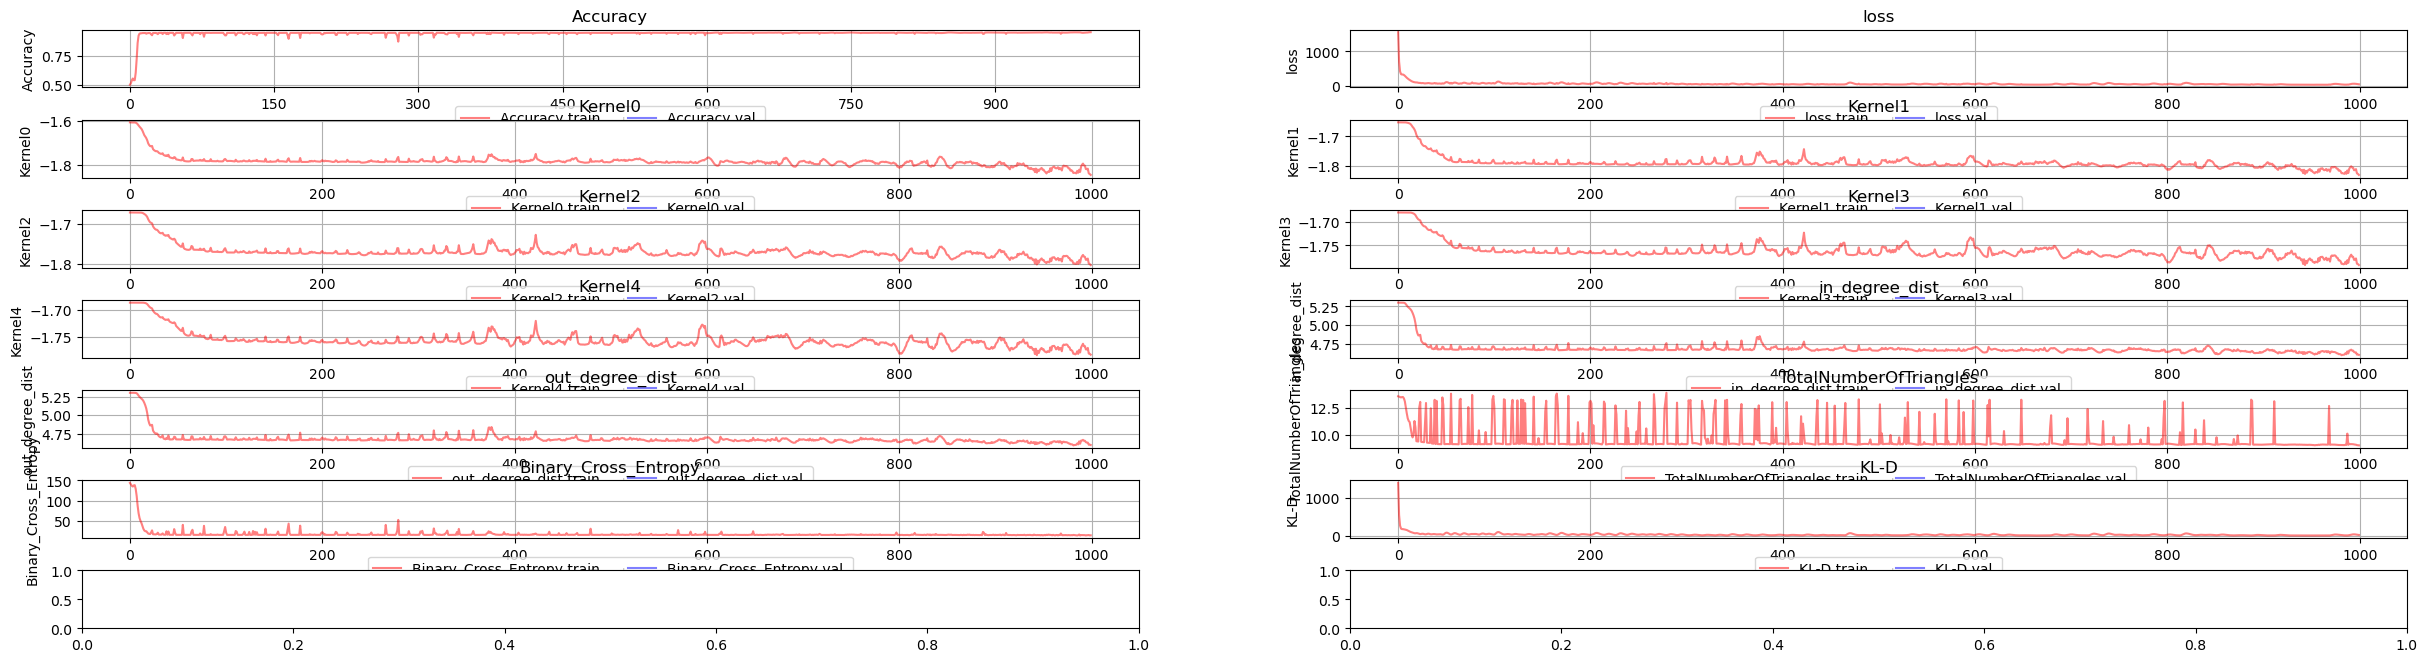
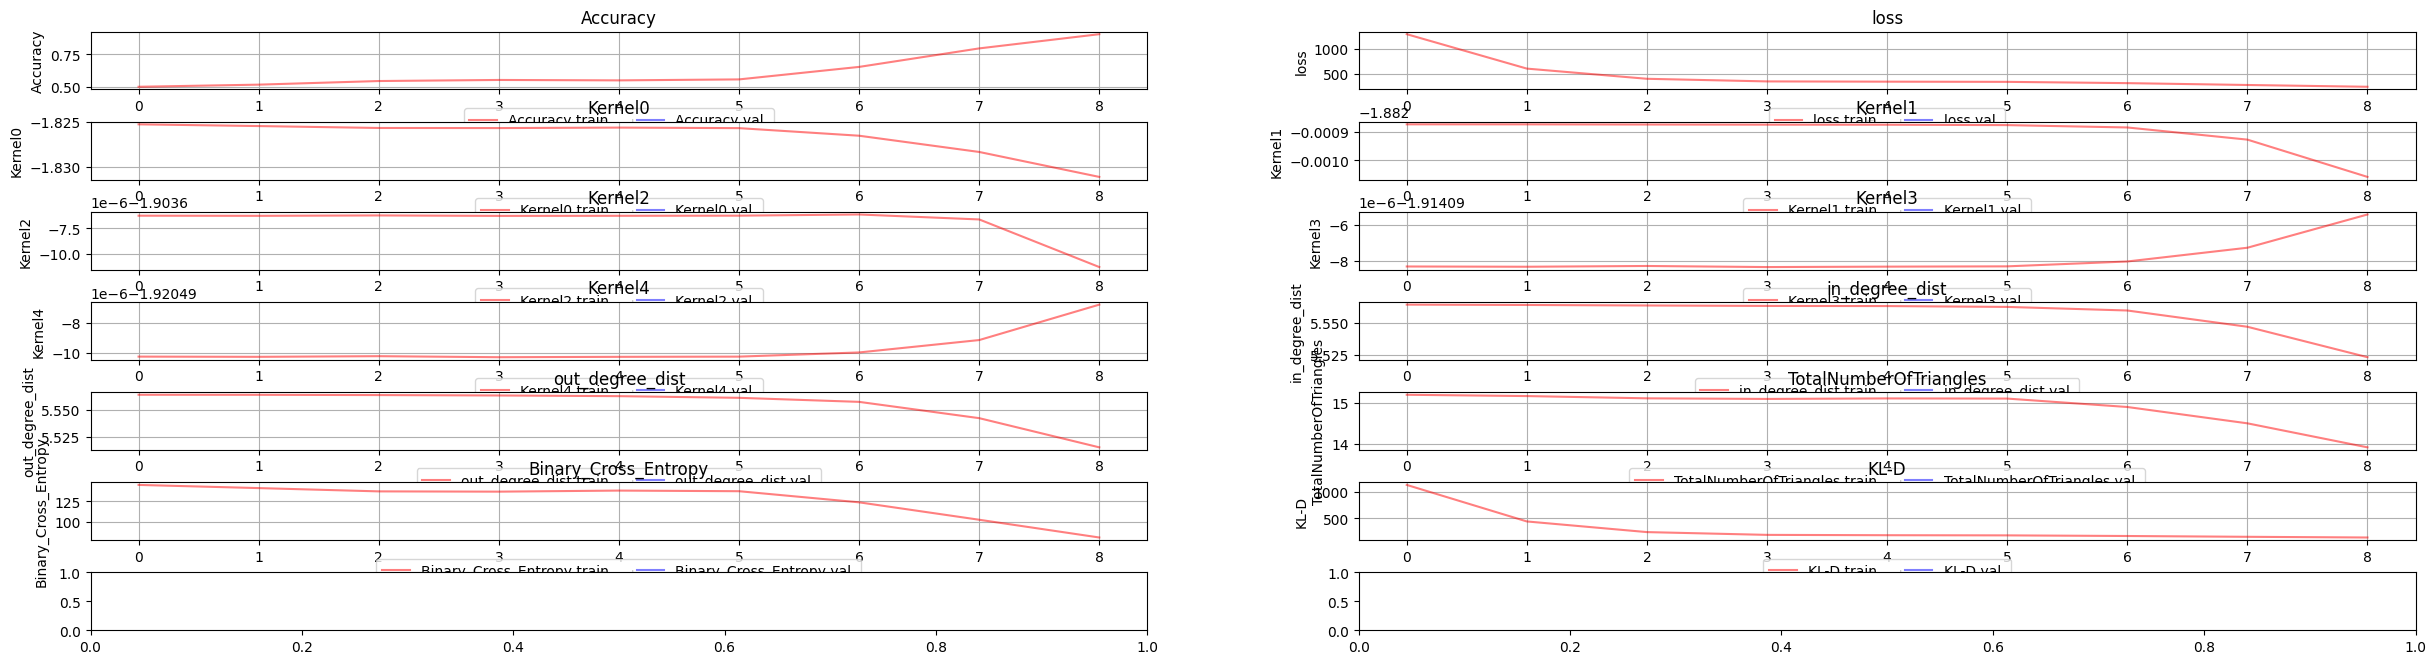
bug:from_numpy_matrix removed in NetworkX 3 fixed it by replacing all active uses with nx.from_numpy_array, which works on both NetworkX 2.x and 3.x

diff --git a/main.py b/main.py
@@ -30,8 +30,8 @@ keepThebest = False
 
 parser = argparse.ArgumentParser(description='Kernel VGAE')
 
-parser.add_argument('-e', dest="epoch_number", default=2000, help="Number of Epochs to train the model", type=int)
-parser.add_argument('-v', dest="Vis_step", default=1000, help="at every Vis_step 'minibatch' the plots will be updated")
+parser.add_argument('-e', dest="epoch_number", default=200, help="Number of Epochs to train the model", type=int)
+parser.add_argument('-v', dest="Vis_step", default=10, help="at every Vis_step 'minibatch' the plots will be updated")
 parser.add_argument('-redraw', dest="redraw", default=False, help="either update the log plot each step")
 parser.add_argument('-lr', dest="lr", default=0.0003, help="model learning rate")
 parser.add_argument('-dataset', dest="dataset", default="grid",
@@ -332,7 +332,7 @@ def test_(number_of_samples, model, graph_size, path_to_save_g, remove_self=True
             # sample_graph = sample_graph[:g_size,:g_size]
             sample_graph[sample_graph >= 0.5] = 1
             sample_graph[sample_graph < 0.5] = 0
-            G = nx.from_numpy_matrix(sample_graph)
+            G = nx.from_numpy_array(sample_graph)
             # generated_graph_list.append(G)
             f_name = path_to_save_g + str(k) + str(g_size) + str(j) + dataset
             k += 1
@@ -364,7 +364,7 @@ def EvalTwoSet(model, test_list_adj, graph_save_path, Save_generated=True, _f_na
                     allow_pickle=True)
 
 
-            logging.info(mmd_eval(generated_graphs, [nx.from_numpy_matrix(graph.toarray()) for graph in test_list_adj]))
+            logging.info(mmd_eval(generated_graphs, [nx.from_numpy_array(graph.toarray()) for graph in test_list_adj]))
     print("====================================================")
     logging.info("====================================================")
 
@@ -373,7 +373,7 @@ def EvalTwoSet(model, test_list_adj, graph_save_path, Save_generated=True, _f_na
     generated_graphs = [nx.Graph(G.subgraph(max(nx.connected_components(G), key=len))) for G in generated_graphs if
                         not nx.is_empty(G)]
 
-    statistic_   = mmd_eval(generated_graphs, [nx.from_numpy_matrix(graph.toarray()) for graph in test_list_adj], diam=True)
+    statistic_   = mmd_eval(generated_graphs, [nx.from_numpy_array(graph.toarray()) for graph in test_list_adj], diam=True)
     # if writeThem_in!=None:
     #     with open(writeThem_in+'MMD.log', 'w') as f:
     #         f.write(statistic_)
@@ -605,7 +605,7 @@ else:
         if plot_testGraphs:
             print("printing the test set...")
             # for i, G in enumerate(test_list_adj):
-            #     G = nx.from_numpy_matrix(G.toarray())
+            #     G = nx.from_numpy_array(G.toarray())
             #     plotter.plotG(G, graph_save_path+"_test_graph" + str(i))
 
     print(f"[Cache] Saving to {cache_path} ...")
@@ -644,7 +644,7 @@ print("#------------------------------------------------------")
 if ideal_Evalaution:
     fifty_fifty_dataset = list_adj + test_list_adj
 
-    fifty_fifty_dataset = [nx.from_numpy_matrix(graph.toarray()) for graph in fifty_fifty_dataset]
+    fifty_fifty_dataset = [nx.from_numpy_array(graph.toarray()) for graph in fifty_fifty_dataset]
     random.shuffle(fifty_fifty_dataset)
     print("50%50 Evalaution of dataset")
     logging.info(mmd_eval(fifty_fifty_dataset[:int(len(fifty_fifty_dataset)/2)],fifty_fifty_dataset[int(len(fifty_fifty_dataset)/2):],diam=True))
@@ -808,7 +808,7 @@ for epoch in range(epoch_number):
                 sample_graph[sample_graph < 0.5] = 0
 
 
-                G = nx.from_numpy_matrix(sample_graph)
+                G = nx.from_numpy_array(sample_graph)
                 plotter.plotG(G, "generated" + dataset,
                               file_name=graph_save_path + "generatedSample_At_epoch" + str(epoch))
                 print("reconstructed graph vs Validation:")
@@ -816,11 +816,11 @@ for epoch in range(epoch_number):
                 reconstructed_adj = reconstructed_adj.cpu().detach().numpy()
                 reconstructed_adj[reconstructed_adj >= 0.5] = 1
                 reconstructed_adj[reconstructed_adj < 0.5] = 0
-                reconstructed_adj = [nx.from_numpy_matrix(reconstructed_adj[i]) for i in range(reconstructed_adj.shape[0])]
+                reconstructed_adj = [nx.from_numpy_array(reconstructed_adj[i]) for i in range(reconstructed_adj.shape[0])]
                 reconstructed_adj = [nx.Graph(G.subgraph(max(nx.connected_components(G), key=len))) for G in
                                     reconstructed_adj if not nx.is_empty(G)]
 
-                target_set = [nx.from_numpy_matrix(val_adj[i].toarray()) for i in range(len(val_adj))]
+                target_set = [nx.from_numpy_array(val_adj[i].toarray()) for i in range(len(val_adj))]
                 target_set = [nx.Graph(G.subgraph(max(nx.connected_components(G), key=len))) for G in target_set if
                             not nx.is_empty(G)]
                 reconstruc_MMD_loss = mmd_eval(reconstructed_adj, target_set[:len(reconstructed_adj)], diam=True)

diff --git a/stat_rnn.py b/stat_rnn.py
@@ -375,7 +375,7 @@ def load_graph_list(fname,remove_self=True):
     graph_list =[]
     for G in glist:
         if type(G) == np.ndarray:
-            graph = nx.from_numpy_matrix(G)
+            graph = nx.from_numpy_array(G)
         elif type(G)==nx.classes.graph.Graph:
             graph = G
         else:
@@ -465,7 +465,7 @@ if __name__ == '__main__':
     # #     print(m)
     # #     adj_orig = np.load('parmis/'+dataset+'_'+m+'/adj_orig.npy')
     # #     generated_graphs = np.load('parmis/'+dataset+'_'+m+'/adj_rec.npy')
-    # #     mmd_eval([nx.from_numpy_matrix(generated_graphs)], [nx.from_numpy_matrix(adj_orig)])
+    # #     mmd_eval([nx.from_numpy_array(generated_graphs)], [nx.from_numpy_array(adj_orig)])
     #
     from  data import  *
     # generated_graph = np.load("result_final/NetGan/adj_lobster_3000")
@@ -475,12 +475,12 @@ if __name__ == '__main__':
     # mean_node = 80
     # G = nx.random_lobster(mean_node, p1, p2)
     #
-    # mmd_eval([nx.from_numpy_matrix(generated_graph)], [G])
+    # mmd_eval([nx.from_numpy_array(generated_graph)], [G])
     #
     # #==========================
     # G = grid(random.randint(15, 15), random.randint(15, 15))
     # generated_graph = np.load("result_final/NetGan/adj_grid_3000")
-    # mmd_eval([nx.from_numpy_matrix(generated_graph)], [G])
+    # mmd_eval([nx.from_numpy_array(generated_graph)], [G])
 
     # C:\git\Graph - Generative - Models\results\GRAPHRNN
     # pred_fname = "/local-scratch/kiarash/GraphENN_remote_c/Reprted/GRIDRNN-rnn/crossEntropy_bestLR001_GraphRNN_RNN_grid_4_128_pred_3000_1.dat_nx22_"
@@ -660,7 +660,7 @@ if __name__ == '__main__':
         if model[-1]!= None:
             list_adj, _ = list_graph_loader(model[-1])
             _, test_list_adj, _, _ = data_split(list_adj)
-            test_list_adj = [nx.from_numpy_matrix(graph.toarray()) for graph in test_list_adj]
+            test_list_adj = [nx.from_numpy_array(graph.toarray()) for graph in test_list_adj]
         else:
             test_list_adj = load_graph_list(model[0])
 

diff --git a/data.py b/data.py
@@ -980,7 +980,7 @@ if __name__ == '__main__':
     result = list_graph_loader("PVGAErandomGraphs_100000")
 
     for G in result[0]:
-        G = nx.from_numpy_matrix(G.toarray())
+        G = nx.from_numpy_array(G.toarray())
         plotter.plotG(G,"DD")
     # ----------------------------------------
     import plotter
@@ -988,7 +988,7 @@ if __name__ == '__main__':
     for G in result[0]:
 
 
-        G = nx.from_numpy_matrix(G.toarray())
+        G = nx.from_numpy_array(G.toarray())
         plotter.plotG(G,"DD")
     #----------------------------------------
     result_ = list_graph_loader("QM9")
@@ -996,14 +996,14 @@ if __name__ == '__main__':
     import plotter
 
     for i, G in enumerate(result[0]):
-        G = nx.from_numpy_matrix(G.toarray())
+        G = nx.from_numpy_array(G.toarray())
         plotter.plotG(G, "test_graph", plot_it=True)
 
     result=list_graph_loader("triangular_grid")
     import plotter
 
     for i, G in enumerate(result[0]):
-        G = nx.from_numpy_matrix(G.toarray())
+        G = nx.from_numpy_array(G.toarray())
         plotter.plotG(G, "test_graph")
 
     import torch_sparse
@@ -1020,7 +1020,7 @@ if __name__ == '__main__':
     for G in result[0]:
 
 
-        G = nx.from_numpy_matrix(G.toarray())
+        G = nx.from_numpy_array(G.toarray())
         plotter.plotG(G,"DD")
 
 """

diff --git a/graph_statistics.py b/graph_statistics.py
@@ -17,7 +17,7 @@ triangle in the given graph"""
 #     :param adj: matrix adjacency matrix; a numpy matrix.
 #     :return: characteristic path length
 #     '''
-#     g = nx.from_numpy_matrix(adj)
+#     g = nx.from_numpy_array(adj)
 #     return g.average_shortest_path_length
 #
 #
@@ -27,7 +27,7 @@ triangle in the given graph"""
 #     :param adj: matrix adjacency matrix; a numpy matrix.
 #     :return:  a sorted list which contain the size of each coponent in the graph
 #     """
-#     G =nx.from_numpy_matrix(adj)
+#     G =nx.from_numpy_array(adj)
 #     comp = sorted(nx.connected_components(G), key=len, reverse=True)
 #     return [len(x) for x in comp]
 
@@ -122,7 +122,7 @@ def statistics_triangle_count(A_in):
     Triangle count
     """
 
-    A_graph = nx.from_numpy_matrix(A_in)
+    A_graph = nx.from_numpy_array(A_in)
     triangles = nx.triangles(A_graph)
     t = np.sum(list(triangles.values())) / 3
     return int(t)
@@ -260,7 +260,7 @@ def compute_graph_statistics(A_in):
     else:
         print("Graph is Asymetric; Directed")
 
-    A_graph = nx.from_numpy_matrix(A)
+    A_graph = nx.from_numpy_array(A)
 
 
     statistics = {}
